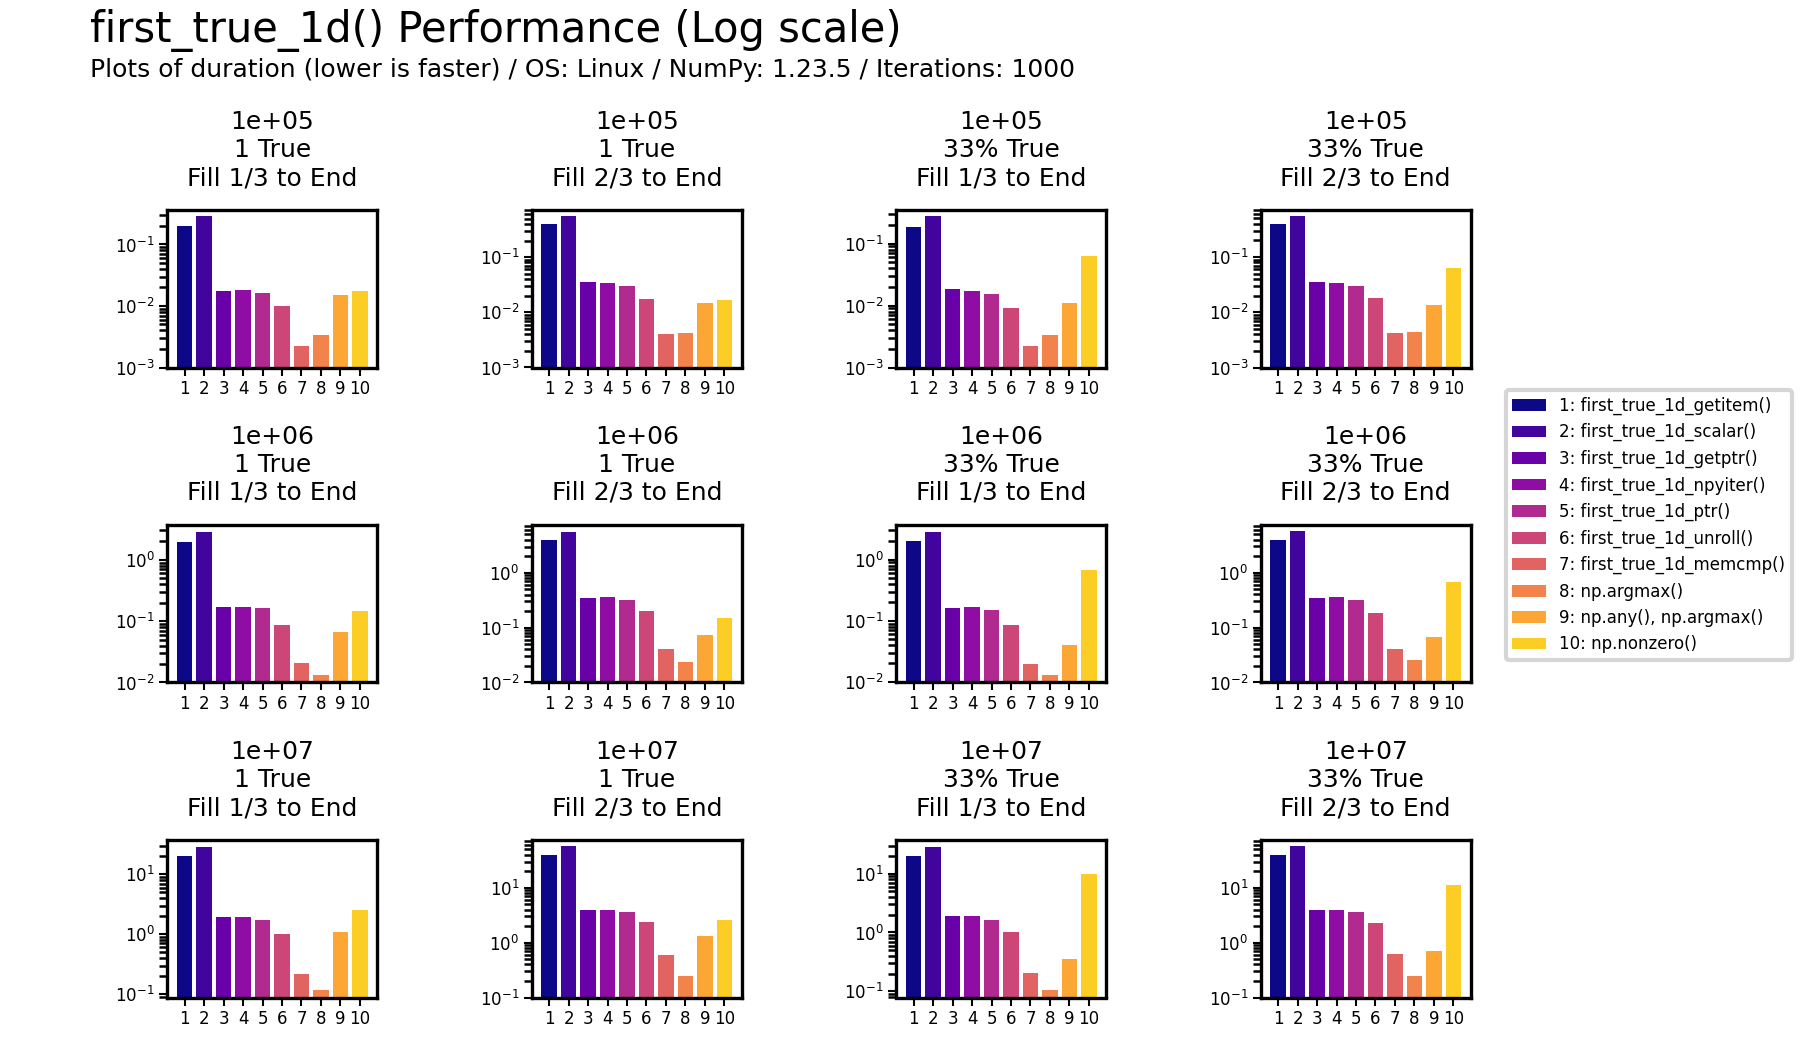
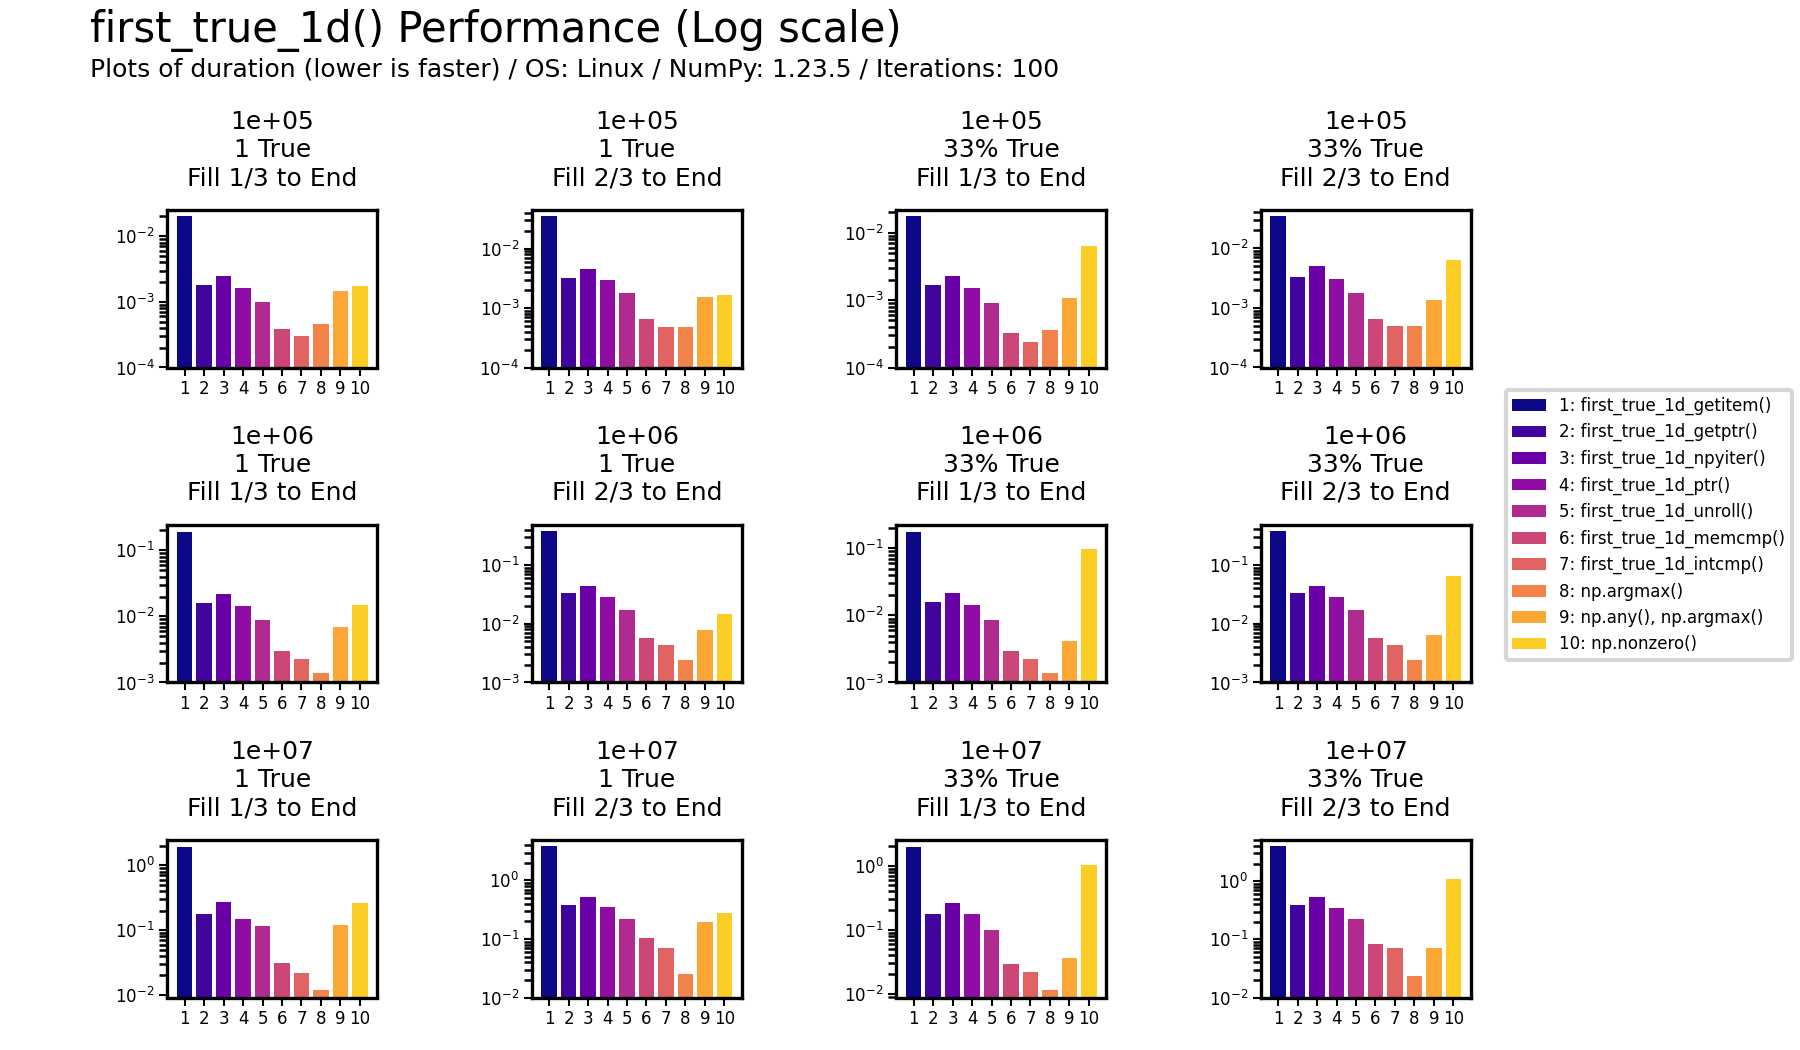
updated slides, code to use uintcmp approach

diff --git a/doc/plot/first_true_1d.py b/doc/plot/first_true_1d.py
@@ -11,6 +11,7 @@ from np_bench import first_true_1d_getptr
 from np_bench import first_true_1d_ptr
 from np_bench import first_true_1d_ptr_unroll
 from np_bench import first_true_1d_memcmp
+from np_bench import first_true_1d_intcmp
 
 sys.path.append(os.getcwd())
 
@@ -64,10 +65,19 @@ class AKFirstTruePtrUnroll(ArrayProcessor):
 
 class AKFirstTrueMemcmp(ArrayProcessor):
     NAME = 'first_true_1d_memcmp()'
-    SORT = 5
+    SORT = 6
 
     def __call__(self):
         _ = first_true_1d_memcmp(self.array, True)
+
+
+class AKFirstTrueIntcmp(ArrayProcessor):
+    NAME = 'first_true_1d_intcmp()'
+    SORT = 7
+
+    def __call__(self):
+        _ = first_true_1d_intcmp(self.array, True)
+
 
 
 #-------------------------------------------------------------------------------
@@ -226,42 +236,43 @@ if __name__ == '__main__':
     directory = Path('doc/bnpy-scipy-2023/public')
 
     for fn, title, processors in (
-        ('ft1d-fig-0.png',
-                'np.nonzero(), np.argmax() Performance',
-                (NPNonZero, NPNotAnyArgMax)),
-        ('ft1d-fig-1.png',
-                'first_true_1d() Performance with PyArray_GETITEM()',
-                (AKFirstTrueGetitem, NPNonZero, NPNotAnyArgMax)),
-        ('ft1d-fig-2.png',
-                'first_true_1d() Performance with PyArray_ToScalar()',
-                (AKFirstTrueGetitem, AKFirstTrueScalar, NPNonZero, NPNotAnyArgMax)),
-        ('ft1d-fig-3.png',
-                'first_true_1d() Performance with PyArray_GETPTR1()',
-                (AKFirstTrueGetitem, AKFirstTrueScalar, AKFirstTrueGetptr, NPNonZero, NPNotAnyArgMax)),
-        ('ft1d-fig-4.png',
-                'first_true_1d() Performance with PyArray_GETPTR1()',
-                (AKFirstTrueGetptr, NPNonZero, NPNotAnyArgMax)),
-        ('ft1d-fig-5.png',
-                'first_true_1d() Performance with NpyIter',
-                (AKFirstTrueGetptr, AKFirstTrueNpyiter, NPNonZero, NPNotAnyArgMax)),
-        ('ft1d-fig-6.png',
-                'first_true_1d() Performance with PyArray_DATA()',
-                (AKFirstTrueGetptr, AKFirstTruePtr, NPNonZero, NPNotAnyArgMax)),
-        ('ft1d-fig-7.png',
-                'first_true_1d() Performance with PyArray_DATA() with Loop Unrolling',
-                (AKFirstTrueGetptr, AKFirstTruePtr, AKFirstTruePtrUnroll, NPNonZero, NPNotAnyArgMax)),
-        ('ft1d-fig-8.png',
-                'first_true_1d() Performance with PyArray_DATA() and memcmp()',
-                (AKFirstTruePtr, AKFirstTruePtrUnroll, AKFirstTrueMemcmp, NPArgMax, NPNotAnyArgMax)),
+        # ('ft1d-fig-0.png',
+        #         'np.nonzero(), np.argmax() Performance',
+        #         (NPNonZero, NPNotAnyArgMax)),
+        # ('ft1d-fig-1.png',
+        #         'first_true_1d() Performance with PyArray_GETITEM()',
+        #         (AKFirstTrueGetitem, NPNonZero, NPNotAnyArgMax)),
+        # ('ft1d-fig-2.png',
+        #         'first_true_1d() Performance with PyArray_ToScalar()',
+        #         (AKFirstTrueGetitem, AKFirstTrueScalar, NPNonZero, NPNotAnyArgMax)),
+        # ('ft1d-fig-3.png',
+        #         'first_true_1d() Performance with PyArray_GETPTR1()',
+        #         (AKFirstTrueGetitem, AKFirstTrueScalar, AKFirstTrueGetptr, NPNonZero, NPNotAnyArgMax)),
+        # ('ft1d-fig-4.png',
+        #         'first_true_1d() Performance with PyArray_GETPTR1()',
+        #         (AKFirstTrueGetptr, NPNonZero, NPNotAnyArgMax)),
+        # ('ft1d-fig-5.png',
+        #         'first_true_1d() Performance with NpyIter',
+        #         (AKFirstTrueGetptr, AKFirstTrueNpyiter, NPNonZero, NPNotAnyArgMax)),
+        # ('ft1d-fig-6.png',
+        #         'first_true_1d() Performance with PyArray_DATA()',
+        #         (AKFirstTrueGetptr, AKFirstTruePtr, NPNonZero, NPNotAnyArgMax)),
+        # ('ft1d-fig-7.png',
+        #         'first_true_1d() Performance with PyArray_DATA() with Loop Unrolling',
+        #         (AKFirstTrueGetptr, AKFirstTruePtr, AKFirstTruePtrUnroll, NPNonZero, NPNotAnyArgMax)),
+        # ('ft1d-fig-8.png',
+        #         'first_true_1d() Performance with PyArray_DATA() and memcmp()',
+        #         (AKFirstTruePtr, AKFirstTruePtrUnroll, AKFirstTrueMemcmp, NPArgMax, NPNotAnyArgMax)),
         ('ft1d-fig-9.png',
                 'first_true_1d() Performance (Log scale)',
                 (AKFirstTrueGetitem,
-                 AKFirstTrueScalar,
+                #  AKFirstTrueScalar,
                  AKFirstTrueGetptr,
                  AKFirstTrueNpyiter,
                  AKFirstTruePtr,
                  AKFirstTruePtrUnroll,
                  AKFirstTrueMemcmp,
+                 AKFirstTrueIntcmp,
                  NPArgMax,
                  NPNotAnyArgMax,
                  NPNonZero)),
@@ -272,7 +283,7 @@ if __name__ == '__main__':
                 processors=processors,
                 fp=directory / fn,
                 title=title,
-                number=1000,
+                number=100,
                 )
 
 

diff --git a/np_bench.c b/np_bench.c
@@ -380,7 +380,7 @@ first_true_1d_ptr_unroll(PyObject *Py_UNUSED(m), PyObject *args)
     return PyLong_FromSsize_t(i);
 }
 
-#define MEMCMP_SIZE 8
+#define MEMCMP_SIZE 8 // 8 bytes, 64 bits
 static PyObject*
 first_true_1d_memcmp(PyObject *Py_UNUSED(m), PyObject *args)
 {
@@ -486,11 +486,12 @@ first_true_1d_intcmp(PyObject *Py_UNUSED(m), PyObject *args)
         return NULL;
     }
 
+    npy_intp lookahead = sizeof(npy_uint64);
+    npy_bool *array_buffer = (npy_bool*)PyArray_DATA(array);
 
     npy_intp size = PyArray_SIZE(array);
-    lldiv_t size_div = lldiv((long long)size, sizeof(npy_uint64)); // quot, rem
+    lldiv_t size_div = lldiv((long long)size, lookahead); // quot, rem
 
-    npy_bool *array_buffer = (npy_bool*)PyArray_DATA(array);
 
     NPY_BEGIN_THREADS_DEF;
     NPY_BEGIN_THREADS;
@@ -507,7 +508,7 @@ first_true_1d_intcmp(PyObject *Py_UNUSED(m), PyObject *args)
             if (*(npy_uint64*)p != 0) {
                 break;
             } // found a true
-            p += sizeof(npy_uint64);
+            p += lookahead;
         }
         while (p < p_end) {
             if (*p) {break;}
@@ -518,10 +519,10 @@ first_true_1d_intcmp(PyObject *Py_UNUSED(m), PyObject *args)
         p = array_buffer + size - 1;
         p_end = array_buffer - 1;
         while (p > p_end + size_div.rem) {
-            if (*(npy_uint64*)(p - MEMCMP_SIZE + 1) != 0) {
+            if (*(npy_uint64*)(p - lookahead + 1) != 0) {
                 break;
             }
-            p -= sizeof(npy_uint64);
+            p -= lookahead;
         }
         while (p > p_end) {
             if (*p) {break;}

diff --git a/doc/bnpy-scipy-2023/slides.md b/doc/bnpy-scipy-2023/slides.md
@@ -1197,9 +1197,8 @@ div {background-color: #fff;}
 <v-clicks depth="2">
 
 - SIMD used to look ahead for `True`
-- Use `memcmp()`
-    - Compare raw memory to zero array buffer
-    - `memcmp()` might use SIMD
+- Use `memcmp()` compare raw memory to zero array buffer
+- Can cast 8 bytes of memory to `npy_uint64` and compare to `0`
 
 </v-clicks>
 </Transform>
@@ -1207,7 +1206,7 @@ div {background-color: #fff;}
 
 ---
 ---
-# IV(c.): Using C-Arrays, `memcmp()` Scan
+# IV(c.): Using C-Arrays, Forward Scan
 
 <Transform :scale="1.5">
 <v-clicks>
@@ -1216,7 +1215,7 @@ Only process 1D, Boolean, contiguous arrays
 
 Use `PyArray_DATA()` to get C-array
 
-Lookhead in units of 8 bytes
+Forward scanning in units of 8 bytes
 
 Less code than loop unrolling
 </v-clicks>
@@ -1225,11 +1224,10 @@ Less code than loop unrolling
 
 ---
 ---
-# IV(c.): Using C-Arrays, `memcmp()` Scan
+# IV(c.): Using C-Arrays, Forward Scan
 <Transform :scale="1.1">
 
 ```c {all|1|2-4,19|5|6-9|10-13|14-17|18}
-#define MEMCMP_SIZE 8
 static PyObject*
 first_true_1d_memcmp(PyObject *Py_UNUSED(m), PyObject *args)
 {
@@ -1255,15 +1253,15 @@ first_true_1d_memcmp(PyObject *Py_UNUSED(m), PyObject *args)
 
 ---
 ---
-# IV(c.): Using C-Arrays, `memcmp()` Scan
+# IV(c.): Using C-Arrays, Forward Scan
 <Transform :scale="1.1">
 
 ```c {all|1|2|4-5|7-9}
-    static npy_bool zero_buffer[MEMCMP_SIZE] = {0};
+    npy_intp lookahead = sizeof(npy_uint64);
     npy_bool *array_buffer = (npy_bool*)PyArray_DATA(array);
 
     npy_intp size = PyArray_SIZE(array);
-    lldiv_t size_div = lldiIv((long long)size, MEMCMP_SIZE); // quot, rem
+    lldiv_t size_div = lldiv((long long)size, lookahead); // quot, rem
 
     Py_ssize_t position = -1;
     npy_bool *p;
@@ -1274,7 +1272,7 @@ first_true_1d_memcmp(PyObject *Py_UNUSED(m), PyObject *args)
 
 ---
 ---
-# IV(c.): Using C-Arrays, `memcmp()` Scan
+# IV(c.): Using C-Arrays, Forward Scan
 <Transform :scale="1.1">
 
 ```c {all|1,14|2-3|4,9|5-8|10-13}
@@ -1282,10 +1280,10 @@ first_true_1d_memcmp(PyObject *Py_UNUSED(m), PyObject *args)
         p = array_buffer;
         p_end = p + size;
         while (p < p_end - size_div.rem) {
-            if (memcmp(p, zero_buffer, MEMCMP_SIZE) != 0) {
+            if (*(npy_uint64*)p != 0) {
                 break;
             }
-            p += MEMCMP_SIZE;
+            p += lookahead;
         }
         while (p < p_end) {
             if (*p) {break;}
@@ -1297,7 +1295,7 @@ first_true_1d_memcmp(PyObject *Py_UNUSED(m), PyObject *args)
 
 ---
 ---
-# IV(c.): Using C-Arrays, `memcmp()` Scan
+# IV(c.): Using C-Arrays, Forward Scan
 <Transform :scale="1.1">
 
 ```c {all|1,14|2-3|4,9|5-8|10-13|15-18}
@@ -1305,10 +1303,10 @@ first_true_1d_memcmp(PyObject *Py_UNUSED(m), PyObject *args)
         p = array_buffer + size - 1;
         p_end = array_buffer - 1;
         while (p > p_end + size_div.rem) {
-            if (memcmp(p - MEMCMP_SIZE + 1, zero_buffer, MEMCMP_SIZE) != 0) {
+            if (*(npy_uint64*)(p - lookahead + 1) != 0) {
                 break;
             }
-            p -= MEMCMP_SIZE;
+            p -= lookahead;
         }
         while (p > p_end) {
             if (*p) {break;}
